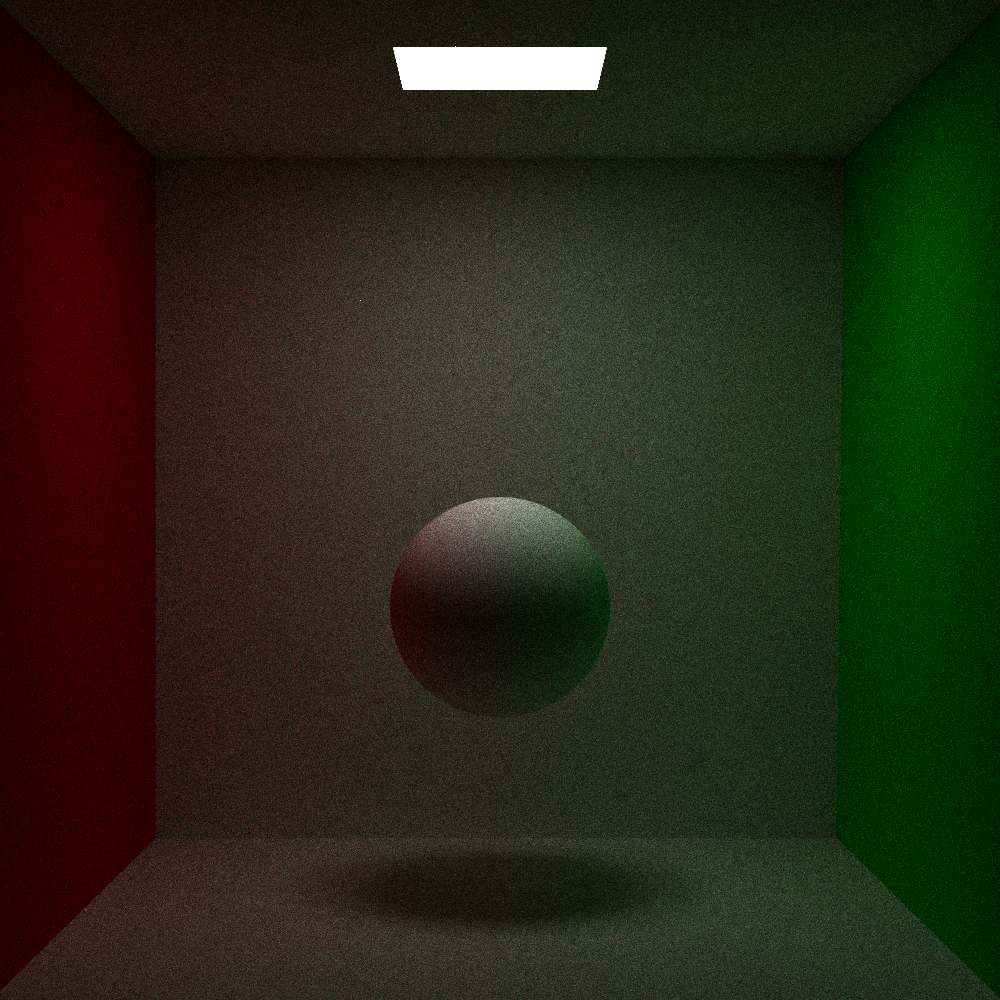
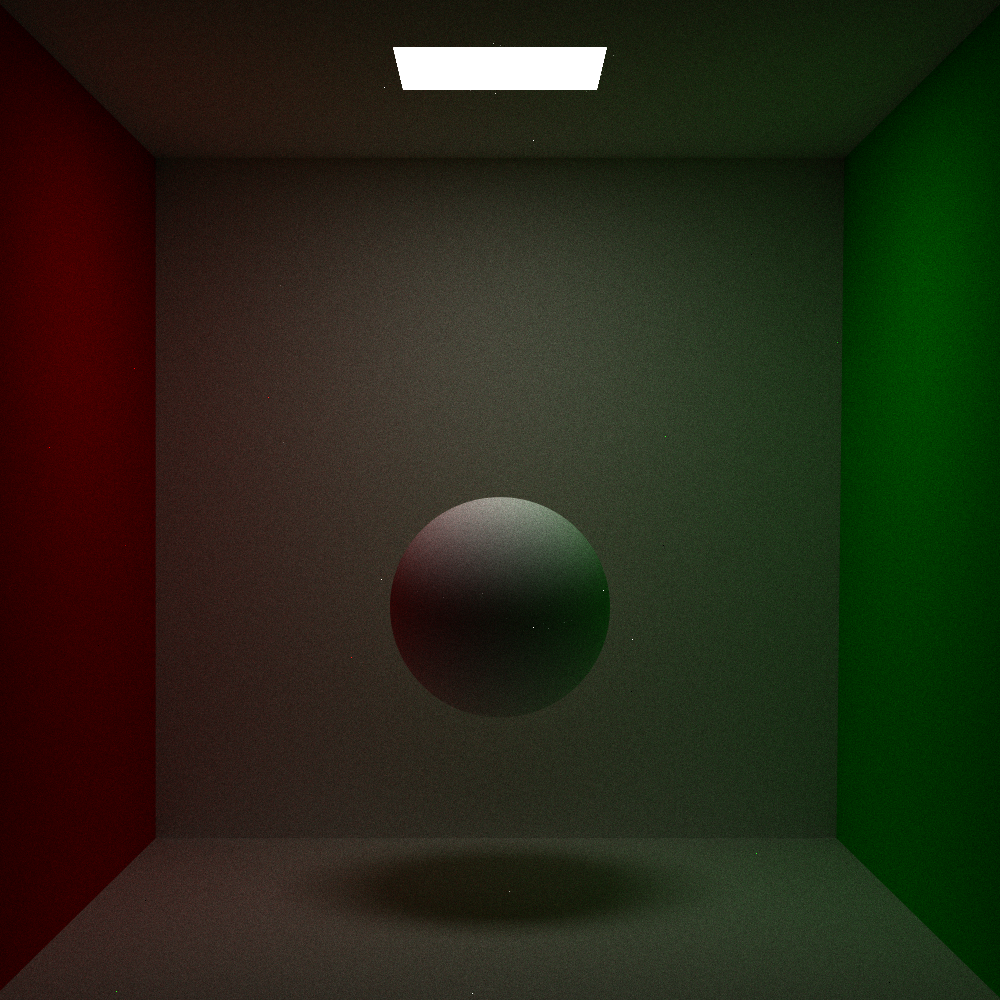
More renders

diff --git a/Content/Renders/README.md b/Content/Renders/README.md
@@ -14,4 +14,6 @@ Cornell Box at a resolution of 1000x1000. Rendered in 2 min, 45 sec on the same 
 
 ### Global illumination
 ![](Render4.png)
-Same scene as above, path-traced with 1024 samples per pixel. Took 64 minutes.
+Same scene as above, path-traced with 5000 samples per pixel. Took approx 5 hours.
+![](Render5.png)
+Sphere uses a metallic material, modelled after aluminium. 4000 samples per pixel, in 4 hours.
